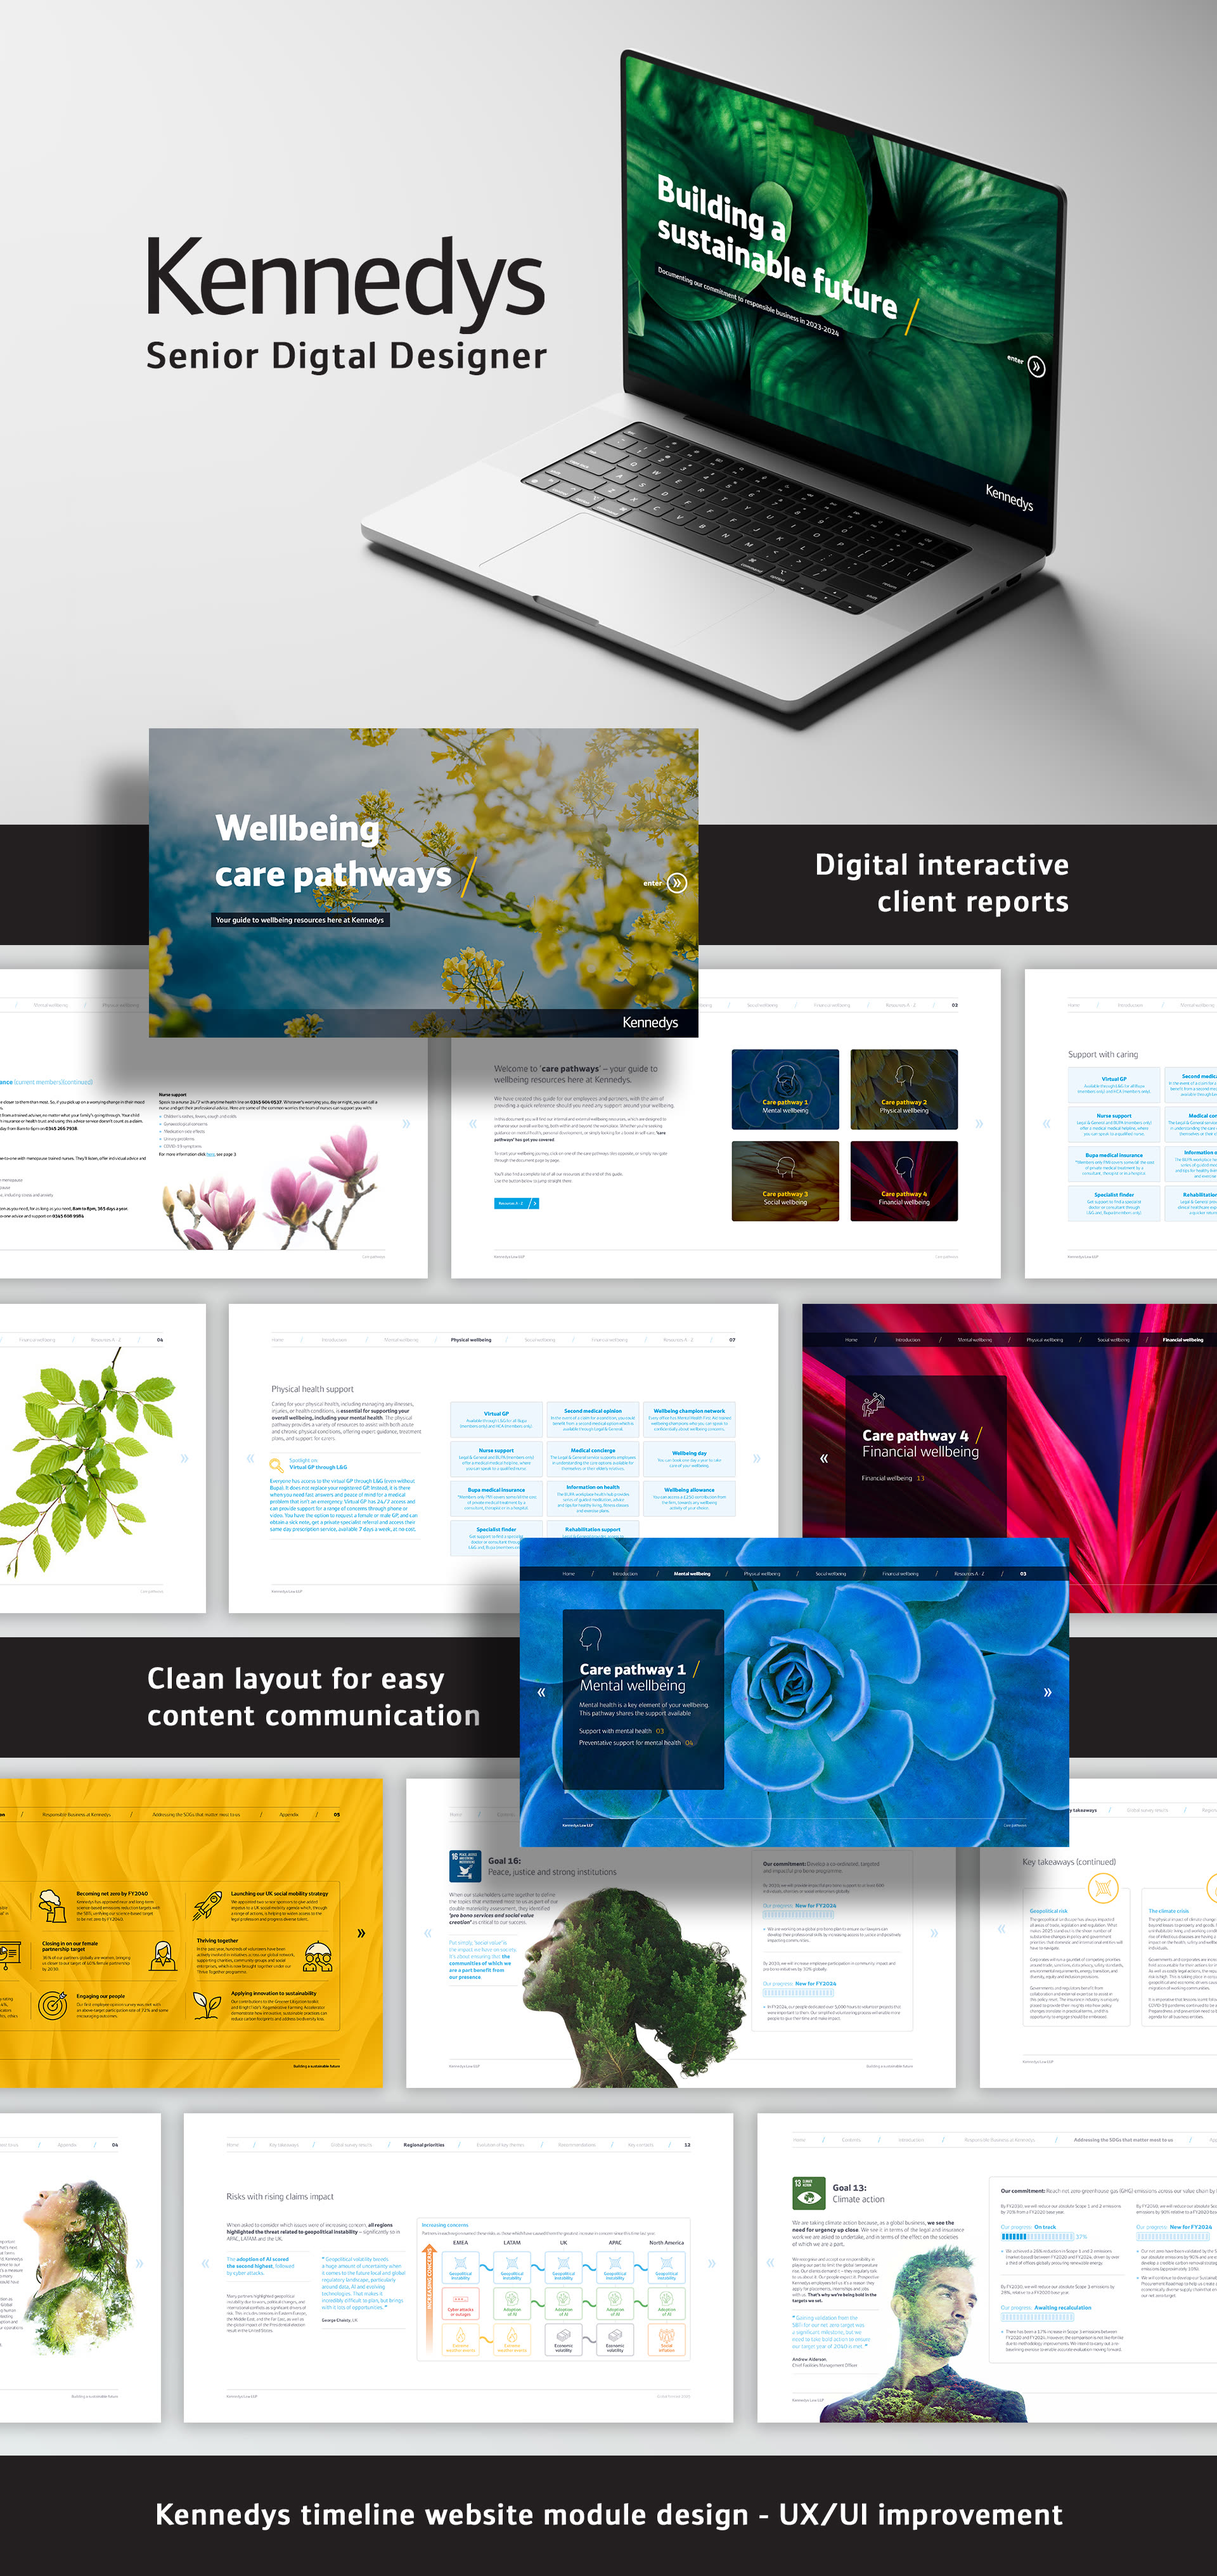
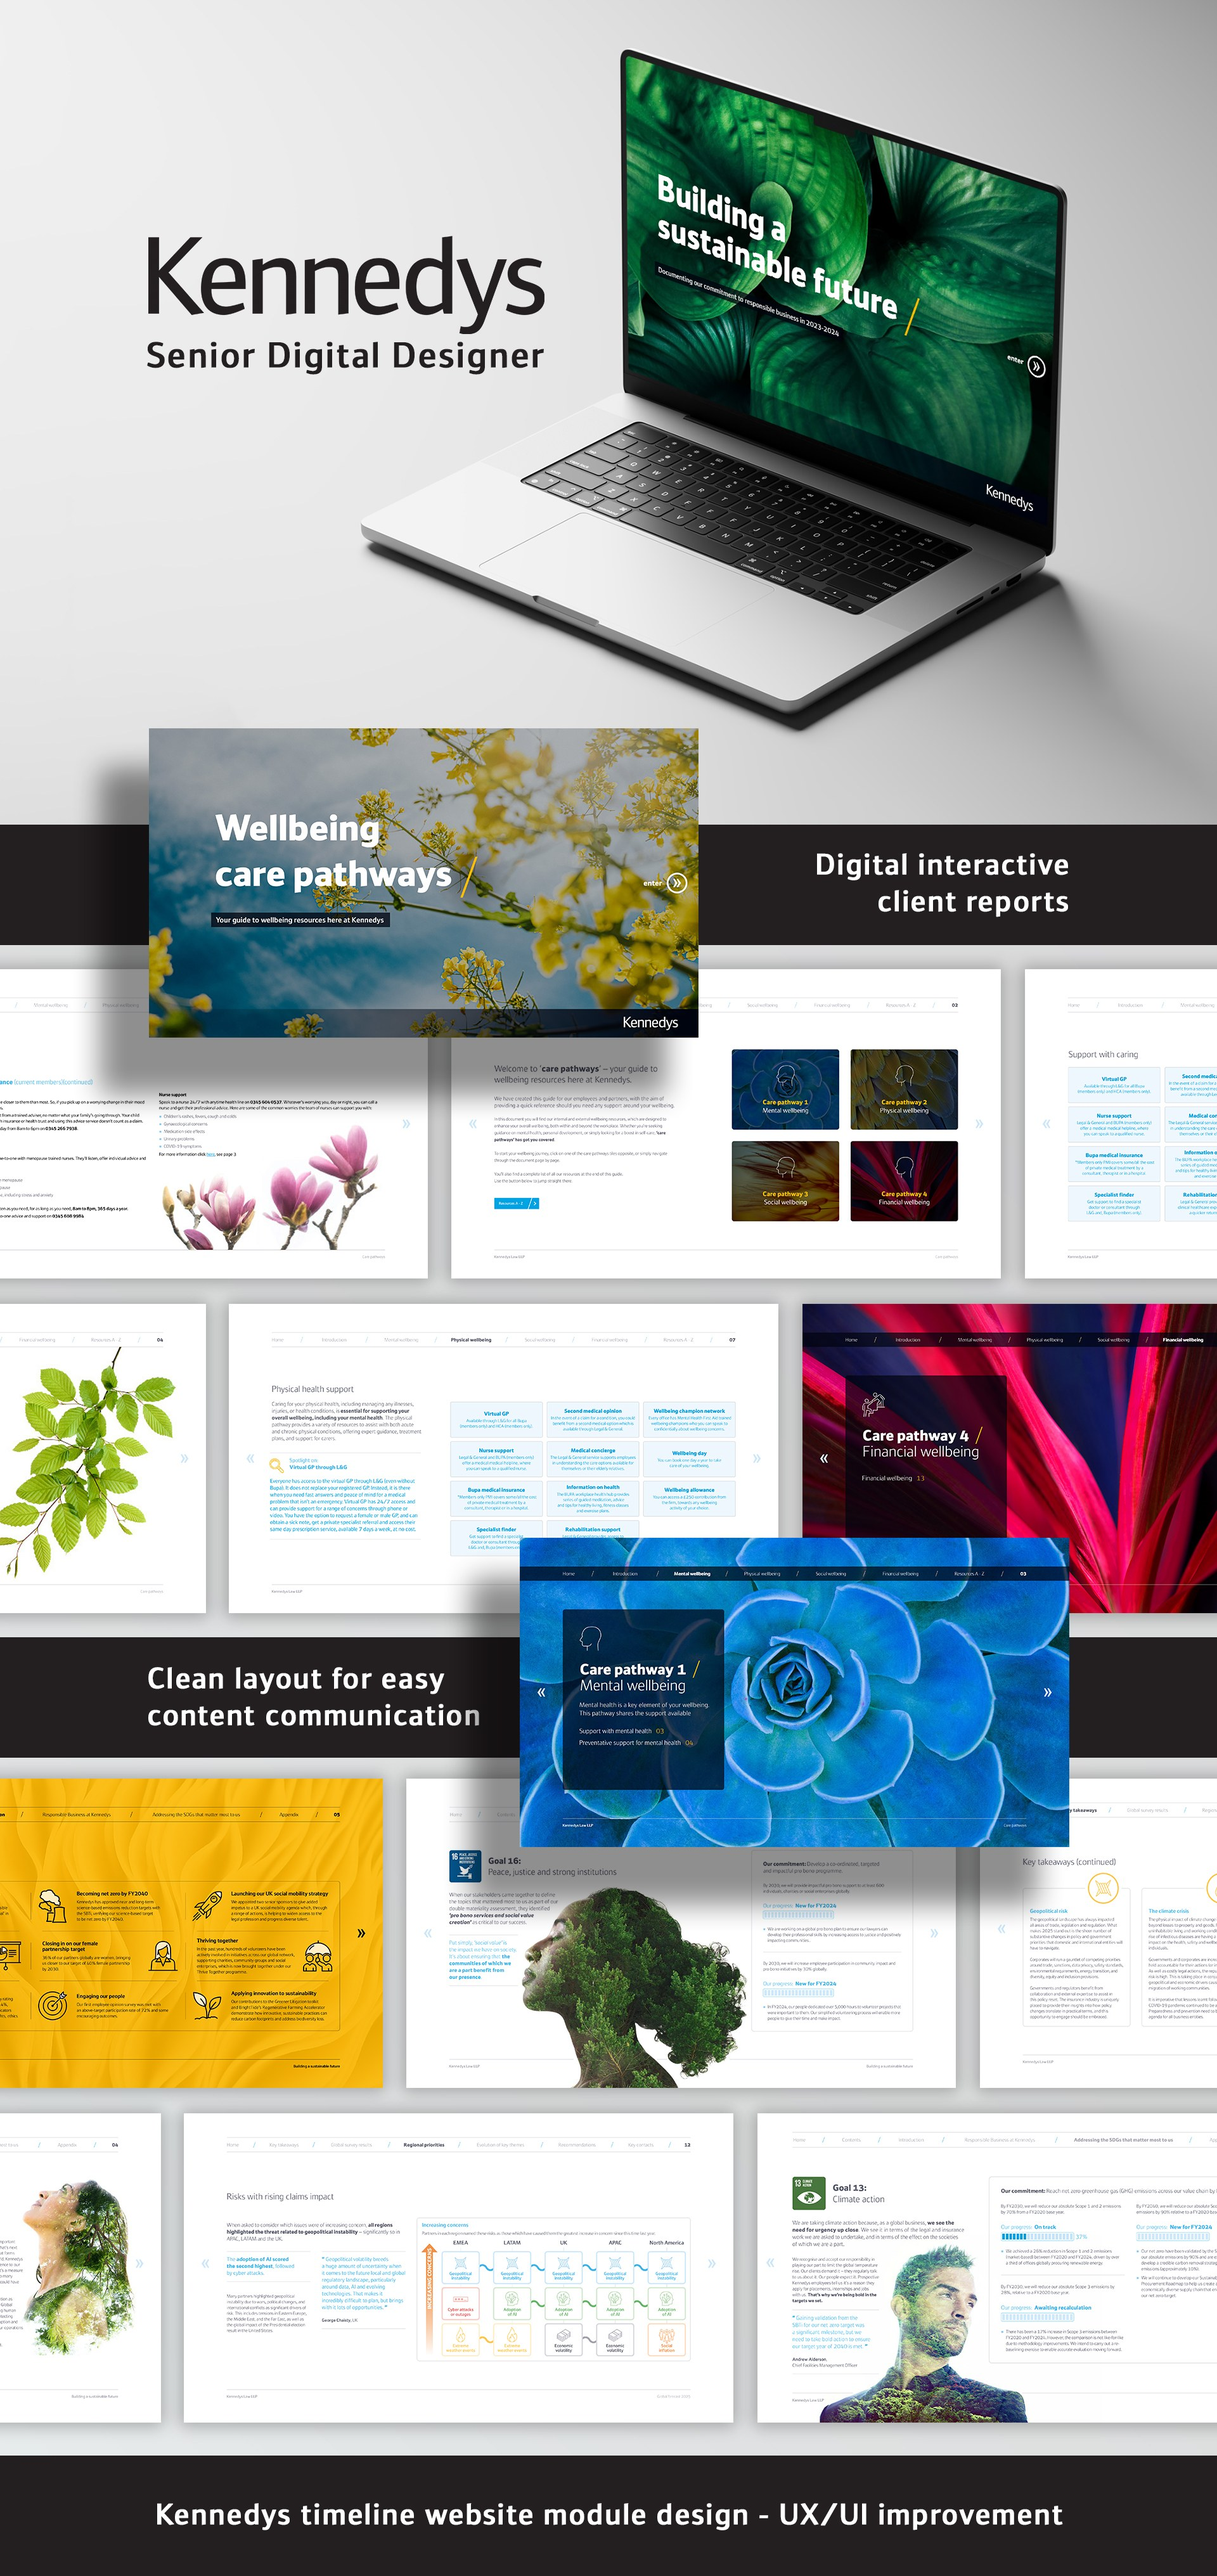
Fix Kennedys typo, remove eyebrow subheadings and availability pill
- Replace kennedys-content-1.jpg and kennedys-thumb.jpg with corrected
  artwork ("Senior Digital Designer", was "Digtal"). Cache-bust both
  with ?v=2 so returning visitors are not held on the year-long
  immutable cache in _headers.
- Retitle the Kennedys work card to "Brand and Digital Design Lead".
- Remove the dot markers before every eyebrow subheading on the
  homepage (hero, section, CTA banner, contact).
- Remove the hero eyebrow "Senior Brand & Digital Designer" from the
  homepage and the equivalent top-module eyebrow from all six project
  pages, along with their now-unused CSS.
- Remove the "Available for Work" pill from the hero.
- Exclude the two parked index-experiment files from Netlify deploys.

diff --git a/index.html b/index.html
@@ -88,17 +88,6 @@
       justify-content: center; padding: 4rem 1rem 5rem 0;
       position: relative; z-index: 1;
     }
-    .hero-tag {
-      display: inline-flex; align-items: center; gap: 0.5rem;
-      font-size: 0.7rem; font-weight: 600; letter-spacing: 0.14em;
-      text-transform: uppercase; color: var(--accent);
-      margin-bottom: 0.75rem;
-      opacity: 0; animation: up 0.6s cubic-bezier(0.16,1,0.3,1) 0.05s both;
-    }
-    .hero-tag::before {
-      content: ''; width: 6px; height: 6px;
-      border-radius: 50%; background: var(--accent); flex-shrink: 0;
-    }
     .hero-hello {
       font-family: 'Aeonik', sans-serif;
       font-size: clamp(6rem, 14vw, 13rem);
@@ -151,20 +140,6 @@
       filter: none;
       opacity: 0; animation: up 0.8s cubic-bezier(0.16,1,0.3,1) 0.5s both;
     }
-    .hero-avail {
-      position: absolute; top: 1.5rem; right: 1.5rem; z-index: 3;
-      background: var(--white); border: 1px solid var(--border);
-      padding: 0.45rem 0.9rem; border-radius: 40px;
-      display: flex; align-items: center; gap: 0.5rem;
-      font-size: 0.69rem; font-weight: 600; color: var(--text);
-      box-shadow: 0 2px 12px rgba(0,0,0,0.07);
-      opacity: 0; animation: up 0.6s cubic-bezier(0.16,1,0.3,1) 0.7s both;
-    }
-    .avail-dot {
-      width: 7px; height: 7px; border-radius: 50%;
-      background: #22c55e; flex-shrink: 0;
-      box-shadow: 0 0 0 2px rgba(34,197,94,0.25);
-    }
 
     /* ── MARQUEE ──────────────────────────────────────── */
     .marquee-wrap {
@@ -196,10 +171,6 @@
       display: inline-flex; align-items: center; gap: 0.5rem;
       font-size: 0.67rem; font-weight: 600; letter-spacing: 0.14em;
       text-transform: uppercase; color: var(--accent); margin-bottom: 0.75rem;
-    }
-    .section-tag::before {
-      content: ''; width: 6px; height: 6px;
-      border-radius: 50%; background: var(--accent); flex-shrink: 0;
     }
     .section-heading {
       font-family: 'Aeonik', sans-serif; font-size: clamp(2.2rem, 5vw, 4rem);
@@ -359,10 +330,6 @@
       text-transform: uppercase; color: rgba(255,255,255,0.45); margin-bottom: 1rem;
       display: flex; align-items: center; gap: 0.5rem;
     }
-    .cta-banner-eyebrow::before {
-      content: ''; width: 6px; height: 6px; border-radius: 50%;
-      background: rgba(255,255,255,0.45); flex-shrink: 0;
-    }
     .cta-banner-title {
       font-family: 'Aeonik', sans-serif; font-size: clamp(2rem, 4.5vw, 4rem);
       font-weight: 400; letter-spacing: 0; line-height: 1.15;
@@ -430,10 +397,6 @@
       font-size: 0.67rem; font-weight: 600; letter-spacing: 0.16em;
       text-transform: uppercase; color: rgba(249,248,246,0.35);
       margin-bottom: 1.5rem;
-    }
-    .contact-tag::before {
-      content: ''; width: 6px; height: 6px;
-      border-radius: 50%; background: var(--accent); flex-shrink: 0;
     }
     .contact-headline {
       font-family: 'Aeonik', sans-serif;
@@ -568,8 +531,8 @@
 
     @media (prefers-reduced-motion: reduce) {
       .fade-up { opacity: 1; transform: none; transition: none; }
-      .hero-tag, .hero-hello, .hero-name-line, .hero-desc, .hero-actions,
-      .hero-stats, .hero-photo, .hero-avail { opacity: 1; animation: none; }
+      .hero-hello, .hero-name-line, .hero-desc, .hero-actions,
+      .hero-stats, .hero-photo { opacity: 1; animation: none; }
       .marquee-track { animation: none; }
     }
 
@@ -638,7 +601,6 @@
   <!-- HERO -->
   <section id="hero">
     <div class="hero-left">
-      <div class="hero-tag">Senior Brand &amp; Digital Designer</div>
       <h1 class="hero-hello">Hello.</h1>
       <p class="hero-name-line">I'm <span>Jordan Femi-Famakinwa</span>, your trusted design specialist.</p>
       <p class="hero-desc">10+ years leading design across B2B, corporate, and technology sectors. Brand strategy, motion, AI-assisted creative - all built to be commercially effective and visually exceptional.</p>
@@ -667,7 +629,6 @@
       </div>
     </div>
     <div class="hero-right">
-      <div class="hero-avail"><div class="avail-dot"></div>Available for Work</div>
       <img class="hero-photo" src="assets/Portfolio-dp-bLACK-RING-v5.png" alt="Jordan Femi-Famakinwa" loading="eager" />
     </div>
   </section>
@@ -743,12 +704,12 @@
 
       <a href="kennedys.html" class="wcard c7 fade-up">
         <div class="wthumb">
-          <img src="assets/kennedys-thumb.jpg" alt="Kennedys Law" loading="lazy" />
+          <img src="assets/kennedys-thumb.jpg?v=2" alt="Kennedys Law" loading="lazy" />
           <div class="wthumb-overlay"><div class="wthumb-arrow"><svg width="14" height="14" viewBox="0 0 14 14" fill="none"><path d="M2 12L12 2M12 2H5M12 2V9" stroke="#222222" stroke-width="1.5" stroke-linecap="round" stroke-linejoin="round"/></svg></div></div>
         </div>
         <div class="winfo">
           <div class="wtags"><span class="wtag">Brand Systems</span><span class="wtag">UI / Web</span><span class="wtag">Motion</span><span class="wtag">Digital Reports</span></div>
-          <div class="wtitle">Kennedys Law, Digital Design Lead</div>
+          <div class="wtitle">Kennedys Law, Brand and Digital Design Lead</div>
           <div class="wdesc">End-to-end brand and digital asset delivery for a global law firm - scalable brand guidelines, interactive client reports, motion content, and UX/UI website modules.</div>
           <div class="wmeta"><span class="wyear">2023 - Present / Kennedys Law LLP</span></div>
         </div>

diff --git a/kennedys.html b/kennedys.html
@@ -79,12 +79,6 @@
     }
     .hero-bg { display: none; }
     .hero-content { position: relative; z-index: 3; max-width: 800px; }
-    .project-eyebrow {
-      font-size: 0.75rem; font-weight: 600; letter-spacing: 0.15em;
-      text-transform: uppercase; color: rgba(255,255,255,0.6); margin-bottom: 1.25rem;
-      display: flex; align-items: center; gap: 0.75rem;
-    }
-    .project-eyebrow::before { display: none; }
     .project-hero h1 {
       font-size: clamp(2.8rem, 6vw, 6rem); font-weight: 400; letter-spacing: 0; line-height: 1.1; margin-bottom: 1.5rem; color: #fff;
     }
@@ -350,7 +344,6 @@
     <div class="hero-video-overlay"></div>
     <div class="hero-bg"></div>
     <div class="hero-content">
-      <div class="project-eyebrow">Brand & Digital Design</div>
       <h1>Kennedys <br><span>Law LLP</span></h1>
       <div class="project-meta">
         <div class="meta-item">
@@ -393,7 +386,7 @@
 
   <!-- MAIN IMAGE -->
   <section class="case-section fade-up" style="padding-top:0">
-    <img src="assets/kennedys-content-1.jpg" alt="Kennedys Law Digital Design Overview" style="width:100%;display:block;border-radius:0.75rem 0.75rem 0 0;border:1px solid var(--border);" />
+    <img src="assets/kennedys-content-1.jpg?v=2" alt="Kennedys Law Digital Design Overview" style="width:100%;display:block;border-radius:0.75rem 0.75rem 0 0;border:1px solid var(--border);" />
     <img src="assets/kennedys-content-2.gif" alt="Kennedys motion work" style="width:100%;display:block;border-radius:0 0 0.75rem 0.75rem;border:1px solid var(--border);border-top:none;" />
   </section>
 

diff --git a/vibecoded.html b/vibecoded.html
@@ -85,8 +85,6 @@
     @keyframes orbFloat { 0%,100% { transform: translate(0,0); } 50% { transform: translate(30px,-40px); } }
     .hero-content { position: relative; z-index: 3; max-width: 900px; }
     .hero-bg-orb { z-index: 2; }
-    .project-eyebrow { font-size: 0.75rem; font-weight: 600; letter-spacing: 0.15em; text-transform: uppercase; color: rgba(255,255,255,0.5); margin-bottom: 1.25rem; display: flex; align-items: center; gap: 0.75rem; }
-    .project-eyebrow::before { display: none; }
     .project-hero h1 { color: #fff; font-size: clamp(2.8rem, 6vw, 6rem); font-weight: 400; letter-spacing: 0; line-height: 1.1; margin-bottom: 1.5rem; }
     .project-hero h1 span { color: rgba(255,255,255,0.65); }
     .hero-sub { font-size: 1rem; color: var(--muted); max-width: 600px; line-height: 1.75; margin-bottom: 2rem; }
@@ -252,7 +250,6 @@
     <div class="hero-bg-orb hero-bg-orb-1"></div>
     <div class="hero-bg-orb hero-bg-orb-2"></div>
     <div class="hero-content">
-      <div class="project-eyebrow">AI-Assisted Development</div>
       <h1>Built with <br><span>Claude Code</span></h1>
       <p class="hero-sub">
         A collection of tools and products built entirely through vibe coding with Claude Code. No traditional development background. Just a designer who identified real problems, scoped the solutions, and shipped them.

diff --git a/lcp.html b/lcp.html
@@ -63,8 +63,6 @@
     }
     .hero-bg { display: none; position: absolute; inset: 0; background: linear-gradient(135deg, #0a0a0a, #0d1020, #101830); }
     .hero-content { position: relative; z-index: 1; max-width: 800px; }
-    .project-eyebrow { font-size: 0.75rem; font-weight: 600; letter-spacing: 0.15em; text-transform: uppercase; color: rgba(255,255,255,0.5); margin-bottom: 1.25rem; display: flex; align-items: center; gap: 0.75rem; }
-    .project-eyebrow::before { display: none; }
     .project-hero h1 { color: #fff; font-size: clamp(2.5rem, 6vw, 5.5rem); font-weight: 400; letter-spacing: 0; line-height: 1.1; margin-bottom: 1.5rem; }
     .project-hero h1 span { color: rgba(255,255,255,0.65); }
     .project-meta { display: flex; gap: 2.5rem; flex-wrap: wrap; margin-bottom: 2rem; }
@@ -214,7 +212,6 @@
     <div class="hero-video-overlay"></div>
     <div class="hero-bg"></div>
     <div class="hero-content">
-      <div class="project-eyebrow">Campaign Design & Digital Publishing</div>
       <h1>Lane Clark <br>&amp; <span>Peacock</span></h1>
       <div class="project-meta">
         <div class="meta-item">

diff --git a/quikly.html b/quikly.html
@@ -63,8 +63,6 @@
     }
     .hero-bg { display: none; position: absolute; inset: 0; background: linear-gradient(135deg, #0a0a0a, #001a15, #00261e); }
     .hero-content { position: relative; z-index: 1; max-width: 800px; }
-    .project-eyebrow { font-size: 0.75rem; font-weight: 600; letter-spacing: 0.15em; text-transform: uppercase; color: rgba(255,255,255,0.5); margin-bottom: 1.25rem; display: flex; align-items: center; gap: 0.75rem; }
-    .project-eyebrow::before { display: none; }
     .project-hero h1 { color: #fff; font-size: clamp(3rem, 8vw, 7rem); font-weight: 400; letter-spacing: 0; line-height: 1.1; margin-bottom: 1.5rem; }
     .project-hero h1 span { color: rgba(255,255,255,0.65); }
     .project-meta { display: flex; gap: 2.5rem; flex-wrap: wrap; margin-bottom: 2rem; }
@@ -168,7 +166,6 @@
     <div class="hero-video-overlay"></div>
     <div class="hero-bg"></div>
     <div class="hero-content">
-      <div class="project-eyebrow">Brand Identity & Visual Design</div>
       <h1><span>Quikly</span> Brand <br>Identity</h1>
       <div class="project-meta">
         <div class="meta-item">

diff --git a/showreel.html b/showreel.html
@@ -77,8 +77,6 @@
       background: linear-gradient(135deg, rgba(0,0,0,0.55) 0%, rgba(0,0,0,0.45) 50%, rgba(0,0,0,0.55) 100%);
     }
     .hero-content { position: relative; z-index: 2; max-width: 800px; }
-    .project-eyebrow { font-size: 0.75rem; font-weight: 600; letter-spacing: 0.15em; text-transform: uppercase; color: rgba(255,255,255,0.5); margin-bottom: 1.25rem; display: flex; align-items: center; gap: 0.75rem; }
-    .project-eyebrow::before { display: none; }
     .project-hero h1 { color: #fff; font-size: clamp(2.8rem, 6vw, 6rem); font-weight: 400; letter-spacing: 0; line-height: 1.1; margin-bottom: 1.5rem; }
     .project-hero h1 span { color: rgba(255,255,255,0.65); }
     .project-meta { display: flex; gap: 2.5rem; flex-wrap: wrap; margin-bottom: 2rem; }
@@ -208,7 +206,6 @@
     <div class="hero-video-overlay"></div>
     <div class="hero-bg"></div>
     <div class="hero-content">
-      <div class="project-eyebrow">Motion Graphics & Video Production</div>
       <h1>Video &amp; <br><span>Motion</span> <br>Work</h1>
       <div class="project-meta">
         <div class="meta-item">

diff --git a/carbonclean.html b/carbonclean.html
@@ -63,8 +63,6 @@
     }
     .hero-bg { display: none; position: absolute; inset: 0; background: linear-gradient(135deg, #0a0a0a, #0f1a0a, #1a2e0f); }
     .hero-content { position: relative; z-index: 1; max-width: 800px; }
-    .project-eyebrow { font-size: 0.75rem; font-weight: 600; letter-spacing: 0.15em; text-transform: uppercase; color: rgba(255,255,255,0.5); margin-bottom: 1.25rem; display: flex; align-items: center; gap: 0.75rem; }
-    .project-eyebrow::before { display: none; }
     .project-hero h1 { color: #fff; font-size: clamp(2.8rem, 6vw, 6rem); font-weight: 400; letter-spacing: 0; line-height: 1.1; margin-bottom: 1.5rem; }
     .project-hero h1 span { color: rgba(255,255,255,0.65); }
     .project-meta { display: flex; gap: 2.5rem; flex-wrap: wrap; margin-bottom: 2rem; }
@@ -209,7 +207,6 @@
     <div class="hero-video-overlay"></div>
     <div class="hero-bg"></div>
     <div class="hero-content">
-      <div class="project-eyebrow">Brand Modernisation & Motion</div>
       <h1>Carbon <br><span>Clean</span></h1>
       <div class="project-meta">
         <div class="meta-item">
